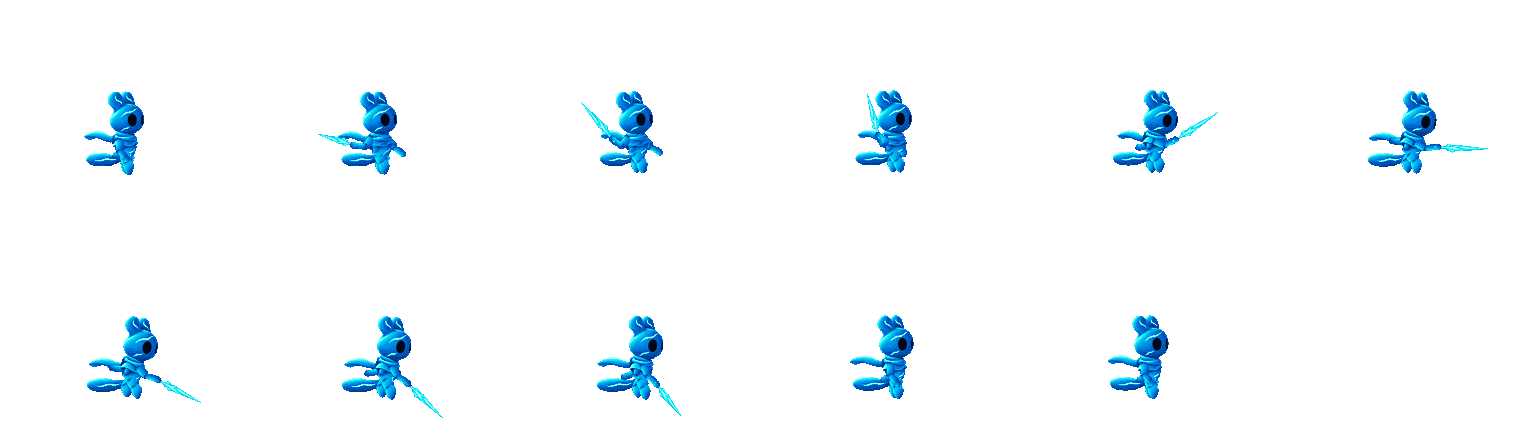
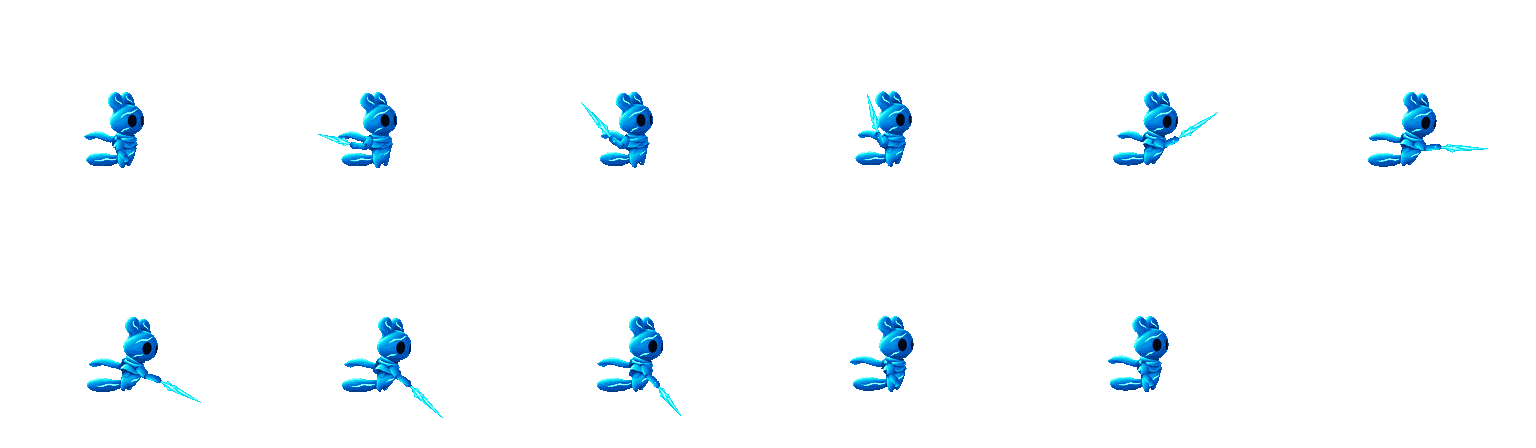
fix(art): 공중 검격의 벌어진 팔다리와 몸체 경계 보정
포고 장면의 모인 자세를 바탕으로 반대팔과 두 무릎을 접고, 원화의 몸통과 다리를 이어진 상태로 변형했다. 옆면 원화에서 중복되는 팔을 지우고 목과 옷깃의 겹침을 보정했다.

공중 일반 검격과 아래 베기의 최종 22프레임을 확대해 확인했다. 아래 베기의 타격과 회수 자세는 효과를 뺀 상태에서도 비교했다. 확인 범위는 에셋이다.

diff --git a/assets/warden/attack-source/grip_rig.py b/assets/warden/attack-source/grip_rig.py
@@ -6,7 +6,7 @@ import json
 import subprocess
 
 import numpy as np
-from PIL import Image, ImageDraw
+from PIL import Image, ImageDraw, ImageFilter
 from scipy.ndimage import map_coordinates
 from scipy.spatial import Delaunay
 
@@ -88,10 +88,11 @@ class Mesh:
                                (self.points[1]-side_pivot)*side_scale))
         self.faces = Delaunay((self.local[0] + self.local[1])/2).simplices
 
-    def render(self, yaw, angle, anchor, size, look_down=0):
+    def render(self, yaw, angle, anchor, size, *, offset=None):
         blend = np.clip(abs(yaw)/72, 0, 1)
         local = (1-blend)*self.local[0] + blend*self.local[1]
-        local[25:, 1] += look_down
+        if offset is not None:
+            local += offset
         c, s = np.cos(angle), np.sin(angle)
         dst = (local @ np.array(((c, s), (-s, c))) + anchor)*SS
         layers = np.zeros((size[1]*SS, size[0]*SS, 4), dtype=np.uint8)
@@ -123,18 +124,29 @@ class Mesh:
 
 HEAD = Mesh(FRONT_HEAD, SIDE_HEAD, FRONT_HEAD_POINTS, SIDE_HEAD_POINTS,
             (237,258),(273,267),.183,.214)
-SIDE_COAT = cut(SIDE_ART, [(209,258),(273,257),(335,263),(337,315),(320,337),
-                           (318,361),(303,380),(267,383),(230,365),(222,337),(207,330)])
-FRONT_COAT = cut(FRONT_ART, [(173,248),(253,245),(310,252),(326,272),(342,331),(320,335),
-                             (314,350),(300,350),(290,382),(197,383),(186,349),(171,347),
-                             (160,332),(149,327),(154,285)])
+
+# The profile master has a hand painted over the coat. Replace that paint with
+# adjacent fabric before adding the animated arm to the same shoulder.
+arm_mask = Image.new('L', SIDE_ART.size)
+ImageDraw.Draw(arm_mask).polygon([(231,324),(251,321),(263,331),(261,350),
+                                 (250,361),(235,360),(229,347)], fill=255)
+side_fabric = SIDE_ART.transform(SIDE_ART.size, Image.Transform.AFFINE, (1,0,26,0,1,2))
+side_body = Image.composite(side_fabric, SIDE_ART, arm_mask.filter(ImageFilter.GaussianBlur(2)))
+SIDE_COAT = cut(side_body, [(209,258),(273,257),(335,263),(337,315),(320,337),
+                           (318,370),(302,438),(229,438),(226,407),(229,375),
+                           (226,357),(222,337),(207,330)])
+FRONT_COAT = cut(FRONT_ART, [(173,248),(253,245),(310,252),(326,272),(342,331),(316,335),
+                             (298,336),(290,353),(303,451),(179,451),(188,366),(190,337),
+                             (159,333),(149,327),(154,285)])
 COAT = Mesh(
     FRONT_COAT, SIDE_COAT,
-    [(145,245),(340,245),(145,388),(340,388),(181,257),(240,251),(298,254),(160,292),
-     (325,287),(159,325),(234,326),(332,325),(185,346),(301,346),(213,376),(275,377)],
-    [(200,255),(345,255),(200,388),(345,388),(219,265),(267,260),(313,265),(215,294),
-     (326,288),(211,325),(268,326),(331,323),(226,346),(314,345),(248,375),(303,375)],
-    (241,367),(272,369),.181,.207)
+    [(145,245),(345,245),(145,455),(345,455),(181,257),(240,251),(298,254),(160,292),
+     (325,287),(159,325),(234,326),(332,325),(190,346),(293,346),(210,371),(273,371),
+     (183,401),(300,401),(209,438),(269,439),(237,409)],
+    [(200,255),(345,255),(200,447),(345,447),(219,265),(267,260),(313,265),(215,294),
+     (326,288),(211,325),(268,326),(331,323),(226,346),(314,345),(248,373),(299,373),
+     (230,397),(313,392),(251,427),(287,422),(275,410)],
+    (241,360),(272,362),.181,.207)
 
 SCARF = cut(SIDE_ART, [(89,345),(95,320),(114,299),(139,292),(171,294),(197,279),
                       (222,269),(243,270),(239,291),(214,308),(185,326),(144,331),
@@ -142,9 +154,6 @@ SCARF = cut(SIDE_ART, [(89,345),(95,320),(114,299),(139,292),(171,294),(197,279)
 TAIL = cut(SIDE_ART, [(104,382),(126,368),(155,362),(184,363),(208,354),(235,335),
                      (251,341),(245,367),(224,397),(198,418),(149,432),(119,422),
                      (105,407)]).crop((99,331,253,437))
-BOOT = cut(SIDE_ART, [(229,361),(245,354),(272,351),(285,368),(282,394),
-                     (266,419),(255,429),(243,431),(232,411),(228,388)])
-BOOT = BOOT.crop((224,349,286,433))
 ARM = cut(SIDE_ART, [(234,324),(245,325),(255,331),(259,343),(252,354),
                     (246,358),(239,355),(234,348)]).crop((231,322,262,360))
 HAND = ARM.crop((4,18,26,35))
@@ -175,11 +184,17 @@ def render(rig, time, size, anchor):
     layers = []
     layers.append((-32, part(TAIL,(140,24),(20,70),q['hip'],q['tail'],.215,size)))
     layers.append((-31, part(SCARF,(143,15),(15,72),q['chest'],q['scarf'],.213,size)))
-    for hip, knee, foot in [('near_hip','knee','foot'),('far_hip','other_knee','other_foot')]:
-        layers.append((p[hip][1] - 5, part(BOOT,(27,7),(27,57),q[hip],q[knee],.215,size)))
-        layers.append((p[foot][1] - 3, part(BOOT,(29,17),(28,72),q[knee],q[foot],.205,size)))
     angle = atan2(q['neck'][0]-q['hip'][0], q['hip'][1]-q['neck'][1])
-    layers.append((0, COAT.render(p['yaw'],angle,q['hip'],size)))
+    legs = np.zeros_like(COAT.local[0])
+    for knee, foot, knee_edge, toe, rest_x in (
+        ('knee', 'foot', 16, 18, -4), ('other_knee', 'other_foot', 17, 19, 4),
+    ):
+        leg_x, leg_y = np.subtract(q[foot], q['hip'])
+        legs[toe] = (.33 * (leg_x - rest_x), .65 * (leg_y - 20))
+        legs[knee_edge] = (.22 * (q[knee][0] - q['hip'][0] - rest_x),
+                           .40 * (q[knee][1] - q['hip'][1] - 10))
+    legs[20] = (legs[16] + legs[17]) / 2
+    layers.append((0, COAT.render(p['yaw'],angle,q['hip'],size,offset=legs)))
     for shoulder, elbow, hand in [('shoulder','elbow','hand'),
                                   ('other_shoulder','other_elbow','other_hand')]:
         if hand == 'hand':
@@ -195,8 +210,11 @@ def render(rig, time, size, anchor):
         layers.append((depth,place(HAND,(11,6),q[hand],heading-pi/2,.31,size)))
     for _, image in sorted(layers, key=lambda item:item[0]):
         frame.alpha_composite(image)
-    frame.alpha_composite(HEAD.render(p['head_yaw'],angle*.55,(q['neck'][0], q['neck'][1] + 3),size,
-                                     np.clip(1-abs(p['head_yaw'])/35,0,1)*2.5))
+    look_down = np.clip(1-abs(p['head_yaw'])/35,0,1)
+    eyes = np.zeros_like(HEAD.local[0])
+    eyes[25:, 1] = look_down*2.5
+    neck = (q['neck'][0], q['neck'][1] + 3.8 + .7*look_down)
+    frame.alpha_composite(HEAD.render(p['head_yaw'],angle*.55,neck,size,offset=eyes))
     reduced = frame.resize(size, Image.Resampling.LANCZOS)
     alpha = reduced.getchannel('A').point(lambda a: 255 if a >= 158 else 0)
     reduced = reduced.convert('RGB').quantize(palette=PALETTE,dither=Image.Dither.NONE).convert('RGBA')

diff --git a/assets/warden/attack-source/attack_motion.py b/assets/warden/attack-source/attack_motion.py
@@ -27,31 +27,31 @@ class Key:
 # Limb values are upper azimuth/elevation and lower azimuth/elevation.
 # Palm values are independent, small yaw/elevation offsets from the forearm.
 AIR = (
-    Key(0,0,0,60,61,0,0,65,(-18,-66,42,-37),(-85,-63,-70,-35),(66,-65,75,-72),(-82,-68,53,-76),(0,0),0),
-    Key(28,-1,0,52,43,-7,9,64,(-85,-49,-97,20),(77,-41,73,-21),(74,-58,76,-73),(-85,-56,57,-76),(-9,12),46),
-    Key(60,-.5,0,55,45,-8,8,63,(-67,-51,-70,26),(61,-41,59,-16),(77,-55,67,-63),(-80,-54,56,-72),(-12,15),52),
-    Key(82,0,1,62,53,-2,5,67,(-39,-37,-38,50),(22,-46,14,-30),(70,-50,66,-66),(-90,-57,56,-72),(3,12),52),
-    Key(100,3,1,70,76,13,-7,72,(72,-26,80,27),(-62,-44,-90,-16),(80,-50,60,-70),(-87,-61,48,-71),(-1,6),52),
-    Key(122,4,0,77,94,16,-12,77,(77,-31,89,2),(-101,-36,-112,4),(83,-49,54,-75),(-101,-54,47,-65),(5,-7),52),
-    Key(144,4,-1,83,105,19,-10,80,(87,-51,97,-23),(-106,-49,-102,6),(72,-56,52,-64),(-111,-53,38,-64),(8,-9),52),
-    Key(169,3,-1,82,98,12,-4,76,(60,-60,89,-41),(-101,-57,-91,-20),(69,-65,64,-68),(-100,-56,37,-65),(8,-8),49),
-    Key(195,2,0,73,83,5,0,73,(26,-63,63,-47),(-97,-62,-77,-25),(70,-66,64,-70),(-93,-60,39,-73),(7,-6),23),
-    Key(220,1,0,65,68,1,0,69,(-12,-66,45,-41),(-86,-63,-69,-35),(67,-65,69,-70),(-86,-65,47,-76),(0,0),0),
-    Key(300,0,0,60,61,0,0,65,(-18,-66,42,-37),(-85,-63,-70,-35),(66,-65,75,-72),(-82,-68,53,-76),(0,0),0),
+    Key(0,0,0,60,61,0,0,65,(-18,-66,42,-37),(-154,-72,-145,-22),(36,-65,23,-73),(-27,-57,-20,-68),(0,0),0),
+    Key(28,-1,0,52,43,-7,9,64,(-85,-49,-97,20),(-150,-71,-132,12),(30,-61,19,-77),(-20,-52,-16,-73),(-9,12),46),
+    Key(60,-0.5,0,55,45,-8,8,63,(-67,-51,-70,26),(-143,-70,-131,19),(25,-54,19,-78),(-16,-47,-10,-72),(-12,15),52),
+    Key(82,0,1,62,53,-2,5,67,(-39,-37,-38,50),(-138,-72,-130,26),(21,-51,17,-80),(-15,-43,-8,-70),(3,12),52),
+    Key(100,3,1,70,76,13,-7,72,(72,-26,80,27),(-147,-75,-134,28),(18,-48,11,-78),(-19,-43,-14,-67),(-1,6),52),
+    Key(122,4,0,77,94,16,-12,77,(77,-31,89,2),(-157,-75,-141,25),(17,-52,15,-76),(-25,-46,-16,-67),(5,-7),52),
+    Key(144,4,-1,83,105,19,-10,80,(87,-51,97,-23),(-149,-70,-138,13),(25,-56,17,-74),(-29,-49,-18,-72),(8,-9),52),
+    Key(169,3,-1,82,98,12,-4,76,(60,-60,89,-41),(-148,-72,-137,0),(28,-61,18,-74),(-29,-53,-20,-70),(8,-8),49),
+    Key(195,2,0,73,83,5,0,73,(26,-63,63,-47),(-151,-74,-140,-18),(33,-64,20,-73),(-31,-55,-18,-69),(7,-6),23),
+    Key(220,1,0,65,68,1,0,69,(-12,-66,45,-41),(-153,-74,-144,-21),(36,-65,23,-73),(-29,-57,-19,-68),(0,0),0),
+    Key(300,0,0,60,61,0,0,65,(-18,-66,42,-37),(-154,-72,-145,-22),(36,-65,23,-73),(-27,-57,-20,-68),(0,0),0),
 )
 
 DOWN = (
-    Key(0,0,0,59,60,0,0,65,(-18,-66,42,-37),(-85,-63,-70,-35),(65,-65,74,-73),(-82,-68,53,-76),(0,0),0),
-    Key(8,0,0,48,45,1,7,53,(40,-46,75,-11),(25,-69,38,-50),(66,-60,71,-77),(-72,-61,59,-74),(4,11),48),
-    Key(18,0,1,39,31,3,10,35,(52,-38,89,-24),(37,-56,58,-32),(55,-55,61,-79),(-63,-56,45,-80),(4,8),53),
-    Key(28,1,1,30,20,5,5,20,(38,-48,61,-48),(65,-38,85,-18),(49,-45,62,-75),(-47,-58,38,-80),(4,-4),53),
-    Key(36,1,0,23,9,4,-2,8,(18,-63,16,-66),(71,-38,91,-18),(-16,-53,-25,-73),(43,-54,72,-75),(0,-1),53),
-    Key(47,0,0,13,-7,1,-11,-3,(-20,-59,-62,-50),(87,-34,104,0),(-30,-51,-37,-77),(63,-50,77,-70),(-7,-2),53),
-    Key(66,-1,1,9,-15,-3,-15,-10,(-47,-54,-97,-3),(92,-41,104,-5),(-37,-57,-26,-74),(64,-48,71,-65),(-4,8),50),
-    Key(85,-1,2,13,-8,-2,-10,0,(-35,-54,-82,19),(73,-52,84,-22),(-26,-58,-15,-78),(51,-52,62,-73),(-3,9),26),
-    Key(108,0,1,24,23,0,-5,22,(-7,-67,-25,-41),(46,-49,67,-24),(52,-59,62,-76),(-77,-64,43,-79),(0,0),0),
-    Key(146,0,0,46,50,0,0,54,(-14,-66,27,-37),(-40,-65,-60,-35),(65,-64,73,-73),(-81,-68,50,-76),(0,0),0),
-    Key(210,0,0,59,60,0,0,65,(-18,-66,42,-37),(-85,-63,-70,-35),(65,-65,74,-73),(-82,-68,53,-76),(0,0),0),
+    Key(0,0,0,59,60,0,0,65,(-18,-66,42,-37),(-154,-72,-145,-22),(36,-65,23,-73),(-27,-57,-20,-68),(0,0),0),
+    Key(8,0,0,48,45,1,7,53,(40,-46,75,-11),(-151,-70,-138,-11),(35,-64,24,-75),(-31,-55,-20,-70),(4,11),48),
+    Key(18,0,1,39,31,3,10,35,(52,-38,89,-24),(-146,-68,-126,5),(34,-57,23,-78),(-34,-51,-25,-70),(4,8),53),
+    Key(28,1,1,30,20,5,5,20,(38,-48,61,-48),(-141,-68,-120,23),(33,-51,24,-78),(-35,-46,-25,-70),(4,-4),53),
+    Key(36,1,0,23,9,4,-2,8,(18,-63,16,-66),(-144,-65,-121,29),(31,-46,22,-78),(-33,-46,-26,-71),(0,-1),53),
+    Key(47,0,0,13,-7,1,-11,-3,(-20,-59,-62,-50),(-147,-65,-121,32),(33,-44,26,-78),(-34,-44,-26,-73),(-7,-2),53),
+    Key(66,-1,1,9,-15,-3,-15,-10,(-15,-66,-97,-3),(-143,-65,-124,24),(34,-49,27,-73),(-36,-48,-28,-68),(-4,8),50),
+    Key(85,-1,2,13,-8,-2,-10,0,(-18,-66,-82,19),(-149,-69,-128,16),(37,-56,22,-74),(-36,-54,-25,-70),(-3,9),26),
+    Key(108,0,1,24,23,0,-5,22,(-7,-67,-25,-41),(-150,-73,-135,7),(37,-60,23,-74),(-33,-55,-22,-72),(0,0),0),
+    Key(146,0,0,46,50,0,0,54,(-14,-66,27,-37),(-152,-74,-141,-15),(35,-63,22,-73),(-29,-57,-21,-69),(0,0),0),
+    Key(210,0,0,59,60,0,0,65,(-18,-66,42,-37),(-154,-72,-145,-22),(36,-65,23,-73),(-27,-57,-20,-68),(0,0),0),
 )
 
 

diff --git a/assets/warden/README.md b/assets/warden/README.md
@@ -8,8 +8,8 @@
 | run_left.png | art/warden/provisional-approved/run-v4/run_left/sheet.png | 618ef3377b2682ee6d15ab4052a208f041562adcaed406a0361977ca7460940e |
 | run_right.png | art/warden/provisional-approved/run-v4/run_right/sheet.png | c29d16562b7df8a8ec927b031ef1589bdf6252467afb648f1537af60977fc3aa |
 | attack.png | `art/warden/ground-step-slash-v1` 몸체 위에 `art/warden/ground-crescent-discharge-refined/slash.png`의 Pixelfx 분기 방전 초승달을 합성 | 0fc07afb21d30d24d5b37127a44baa3bc838225107085329f30bf53f2f110073 |
-| air_attack.png | `attack-source/grip_rig.py`의 전신 자세 시트에 지상 검격과 같은 여섯 pixelfx 프레임을 같은 크기로 합성 | 5f123b55f8ee1de188ac3095eaf0200a61a5e5b1c393ce85a5a80421113894bf |
-| downstrike.png | 전신 자세 시트에 `attack-source/down-sweep.mjs`의 발밑 pixelfx 잔상을 합성. [출처](downstrike-source/provenance.json) | bce209819f56669e7257dacbe09a1887f74e30bea1961d2e5a2b1e8d2384e258 |
+| air_attack.png | `attack-source/grip_rig.py`의 전신 자세 시트에 지상 검격과 같은 여섯 pixelfx 프레임을 같은 크기로 합성 | 254f57ca35cac95def2a2f1f1ea99ce2dbfb20f13ae39bde04e2f07055c26693 |
+| downstrike.png | 전신 자세 시트에 `attack-source/down-sweep.mjs`의 발밑 pixelfx 잔상을 합성. [출처](downstrike-source/provenance.json) | 4bed7b210c454a5cde80c3e7f6cfc7ac28496c0aa53d90cd43ed8b28db7d164b |
 | prepare_idle_left.png | art/warden/provisional-approved/dash-eye-cape-v1/prepare_idle_left/sheet.png | efb9df7c2c976ace57b8a0d2448dac120bf4616e414edaa58bac91e12ae1ce1e |
 | prepare_idle_right.png | art/warden/provisional-approved/dash-eye-cape-v1/prepare_idle_right/sheet.png | 3ba433a4573f4cf45a085579ab10bf5a355c72e528446974023bc0fff342c3d0 |
 | prepare_run_left.png | art/warden/provisional-approved/dash-eye-cape-v1/prepare_run_left/sheet.png | f4db13401e9771a363a726689ad5ab573b1e519955e07a8eba3e757c5023f4f5 |
